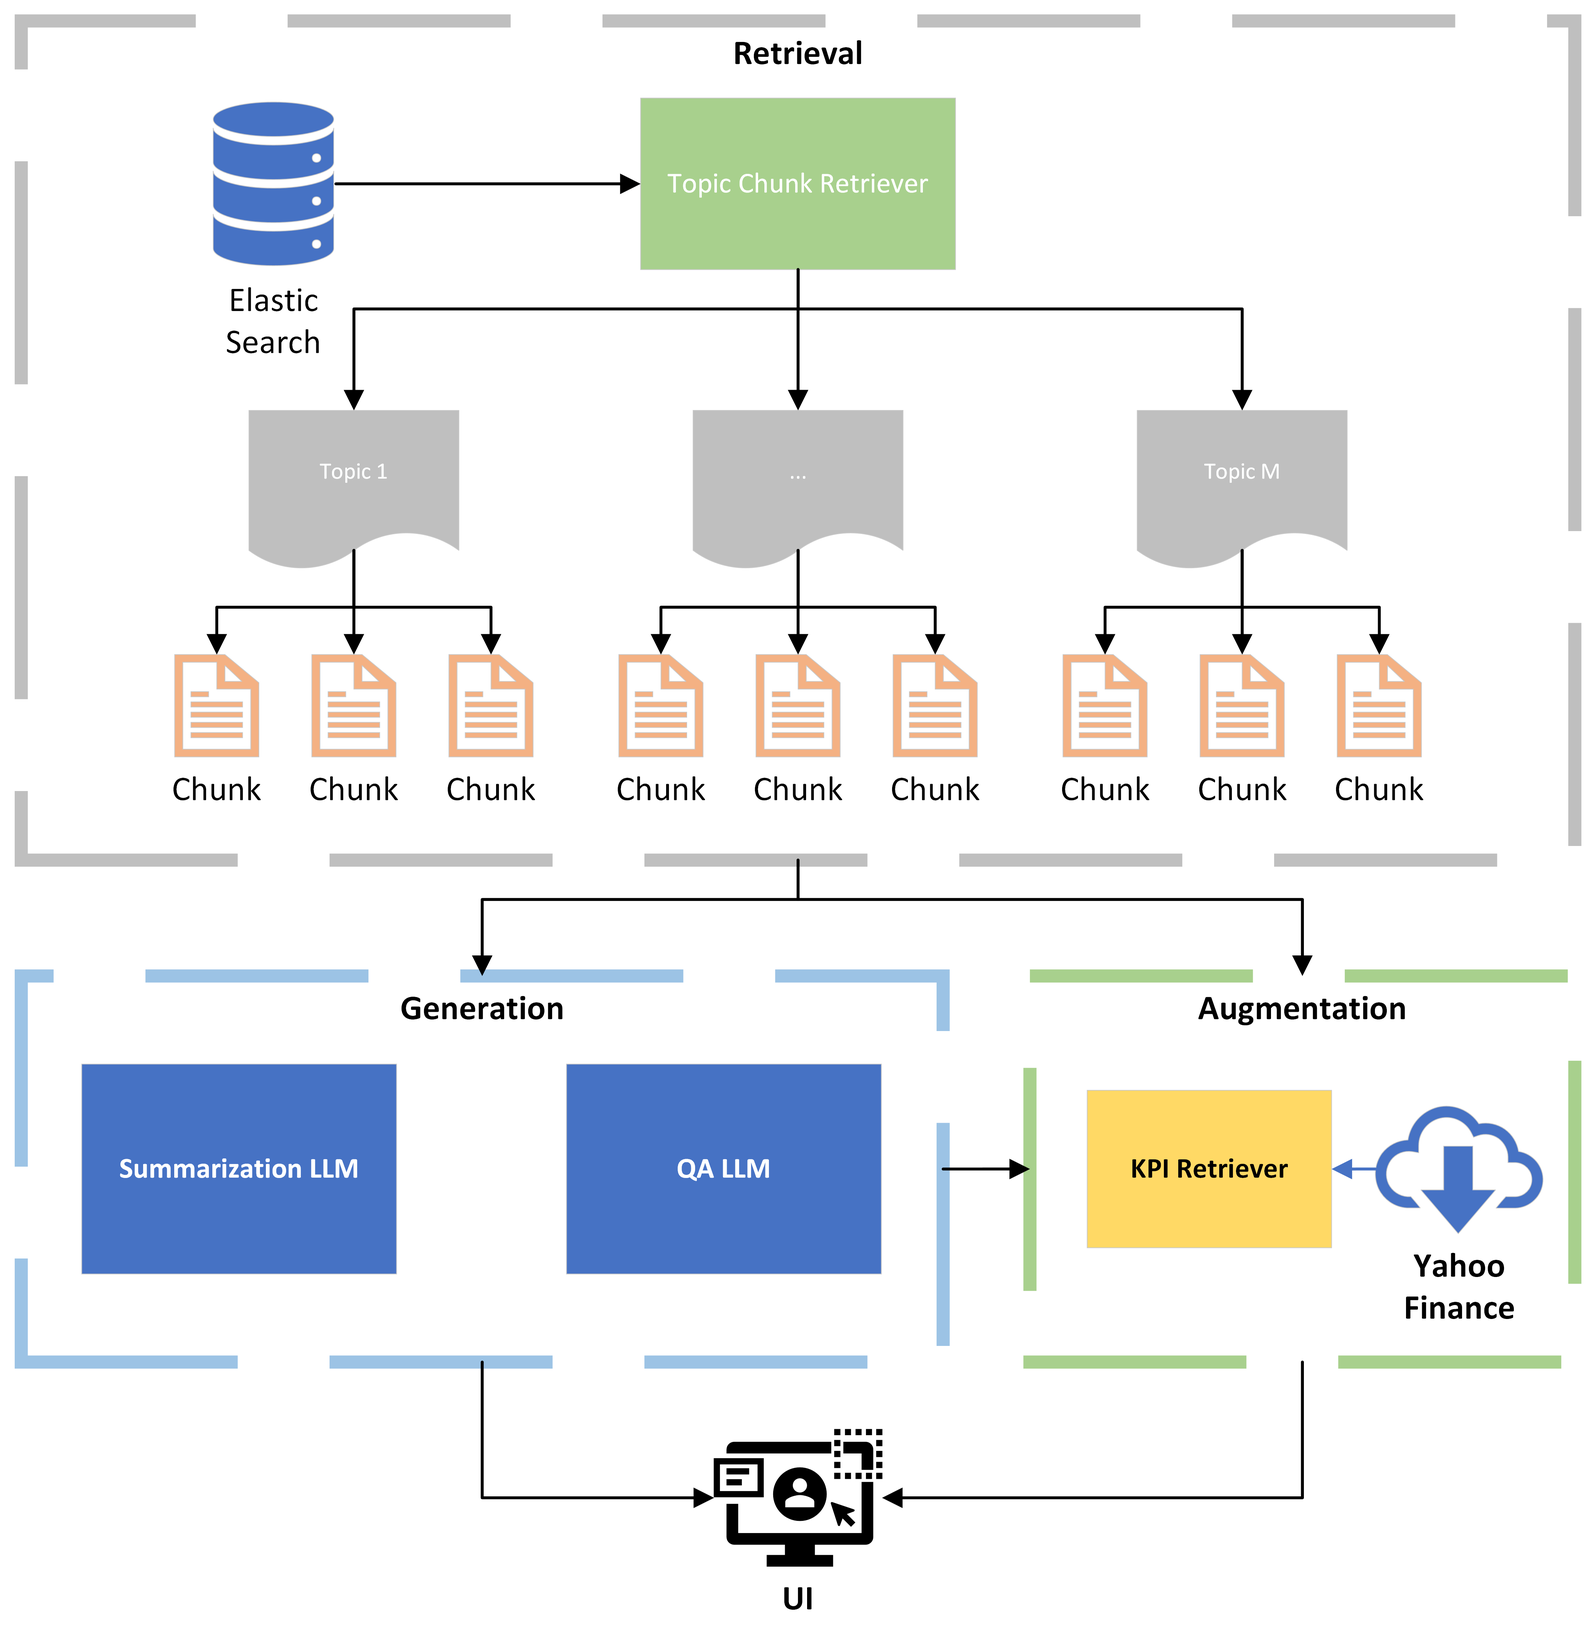
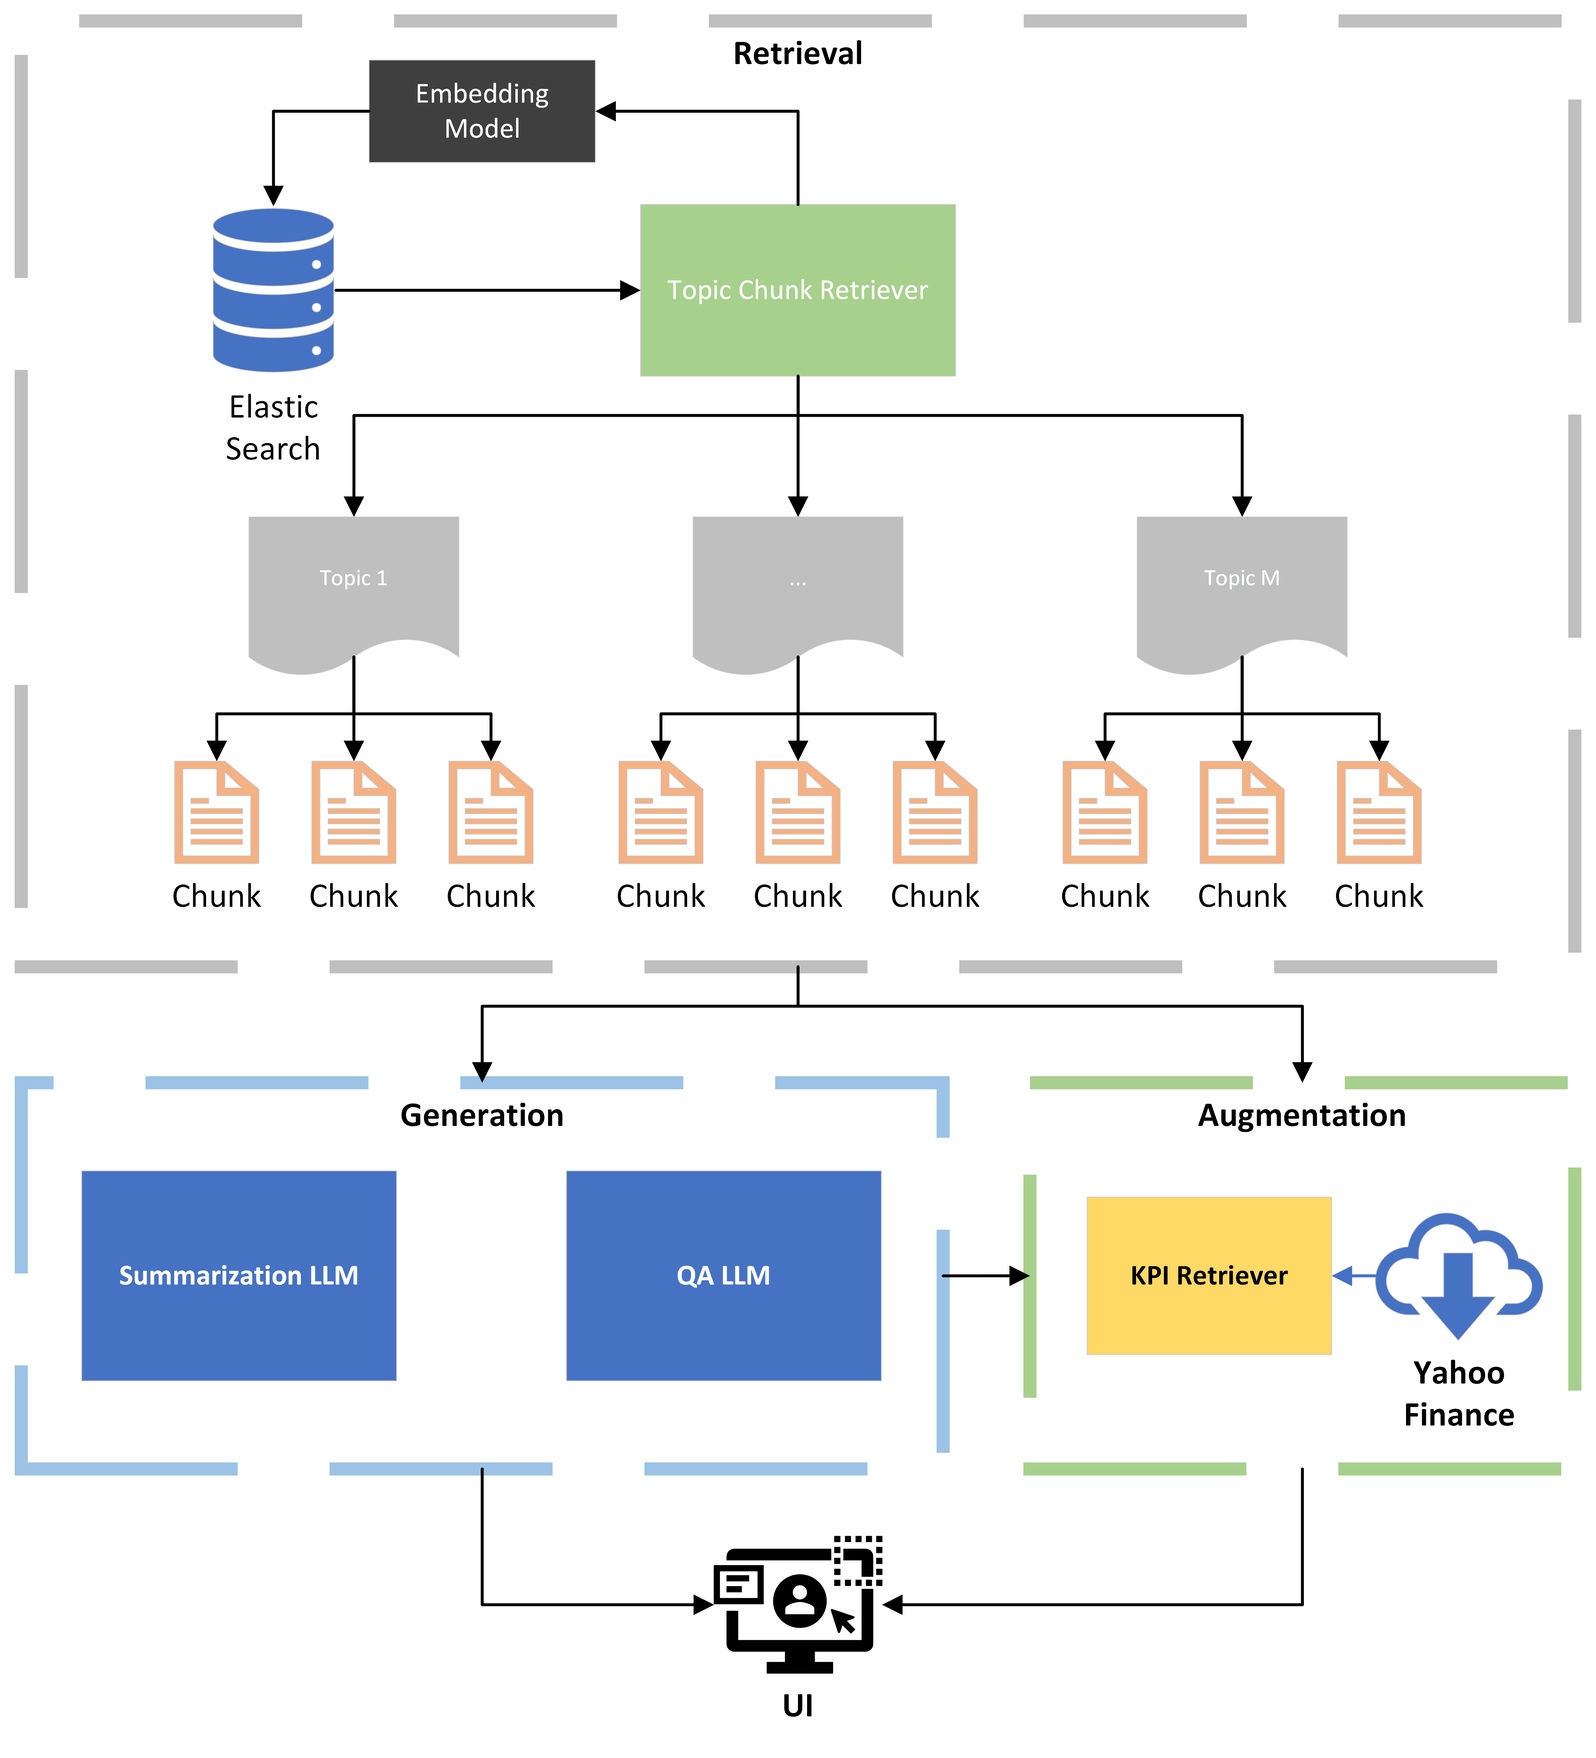
Updates readme

diff --git a/README.md b/README.md
@@ -16,17 +16,13 @@
 
 ## Demo <a name="demo"></a>
 
-TODO
+TODO. Add when the demo video is done.
 
 ## About FinBot <a name="background"></a>
 
 FinBot is an AI driven web application capable of analyzing financially related news articles and provide 
 insights to retail investors. The application can empower the users to make better investment decisions while saving 
 time and money by letting leveraging the power of LLM and retrieval augmented generation.
-
-### Industry Research <a name="industry_research"></a>
-
-TODO
 
 ### Project Mission <a name="mission"></a>
 
@@ -62,19 +58,42 @@ number of retail investors. In recent years, the growth of ESG suggests that inv
 such as delivering social impact, by means of their investment. In addition, getting financial advice can be costly, 
 and the interest of the hired advisor may not truly be aligned with the interest of the investor.
 
+![ESG](images/esg.png)
+
 The aim of the project is to alleviate those pain-points by reducing the information asymmetry that leads to less efficient 
 investment choices by retail investors compared to a dedicated advisor or asset manager. Utilizing the power of AI, we provide 
 our users the power to quickly digest facts and insights from the vast collection of publically available financial news 
-articles 
+articles
 
 ### Current Features
 
-The main features for the project ordered by priority is given below:
+#### Question Answering
 
-1. Answer any questions about business news and developments in a time frame
-2. Summarize contextual information from different perspectives
-3. Automatically pulling relevant financial metrics from companies
-- *TODO: Add more as we develop it further*
+Given any question about business news or developments in a time frame, FinBot can help user to get the information 
+they need quickly. The users can stay up-to-date quickly and painlessly.
+
+INSERT SCREENSHOT HERE
+
+#### Key-points Summarization
+
+For each question, FinBot helps user to expand their view by summarizing key-points from different topics related 
+to their inquiry.
+
+INSERT SCREENSHOT HERE
+
+#### Built-in KPI Viewer
+
+FinBot automatically extracts relevant companies for each query, and present selected KPIs to the users. The users 
+would be able to learn about different companies at a glance.
+
+INSERT SCREENSHOT HERE
+
+#### On-demand Financial Advice
+
+FinBot can provide assistance in picking stocks, ETFs, mutual funds, and bonds if the users ask for it. Combining 
+with the other features, it can enable the users to manage their own assets without high time cost.
+
+INSERT SCREENSHOT HERE
 
 ## Project Implementation
 
@@ -89,13 +108,14 @@ and reasoning ability of the LLMs to create the outputs for the users.
 
 ![Architecture](images/arch_high.png)
 
-Our work to implement the process can be roughly divided into three main parts:
+Our work to implement the process can be roughly divided into four main parts:
 
-- Data Ingestion: Scraping news articles and enriching them with additional information
+- Data Ingestion: Scraping news articles/KPIs and enriching them with additional information
 - Model Improvements: Fine-tuning the LLMs to achieve desired performance and output format
-- Output Generation: Generating outputs via LLMs and augmenting the output with additional information
+- Informative Generation: Generating outputs via LLMs and augmenting the output with additional information
+- Advice Generation: Helping users to pick assets via LLMs
 
-### Data Ingestion
+### Data Ingestion for Articles
 
 The data collection pipeline collects and aggregate news articles. Then, it applies a series of NLP techniques including 
 co-reference resolution, topic modeling, text embedding, NER, and Min-Hash to augment the articles. Finally, it prepares 
@@ -105,51 +125,52 @@ the articles for output generation by chunking the article texts and indexing th
 
 #### Web Scraping for Data Collection ([scraper](scraper))
 - We've gathered data from prominent news sources, including CNBC, The New York Times, and Reuters, as part of the data collection phase. The [common.py](scraper/common.py) is a framework that serves as the backbone for the web scraper. It encapsulates the essential functionality of traversing HTML pages by following links, verifying if a URL has already been scraped, and progressing to the subsequent page.
-- The [cnbc_requests.py](scraper/cnbc_requests.py), [nyt_requests.py](scraper/nyt_requests.py) and [reuters_requests.py](scraper/reuters_requests.py) scripts are dedicated scrapers designed for their respective news sources, employing the '[lxml](https://lxml.de/)' module to extract key information such as article sections, titles, publication timestamps, article bodies, and optional summaries.
+- The [cnbc_requests.py](scraper/cnbc_requests.py), [nyt_requests.py](scraper/nyt_requests.py) and [reuters_requests.py](scraper/reuters_requests.py) scripts are dedicated scrapers designed for their respective news sources, employing the lxml module to extract key information such as article sections, titles, publication timestamps, article bodies, and optional summaries.
 - News articles spanning from March 2008 to September 2023 have been scraped and collected for the project.
-- The scrapers dump the scraped articles into BigQuery
+- The scrapers dump the scraped articles into BigQuery.
 
-#### Deduplication of the news articles
+#### Deduplication of the news articles ([clean_data_1.py](pipeline/clean_data_1.py))
 - The dataset includes near duplicate articles, which may be attributed to either the scraper's behavior or the occurrence of similar news articles from different sources.
 - Eliminating these duplicate news articles is crucial to improve efficiency, prevent potential biases caused by redundant information, and ensure a more accurate representation of the data.
 - In this context, we've employed the MinHash LSH technique to effectively eliminate duplicate news articles from the dataset.
 
-#### Coreference Resolution
-- The [coref_resolve_4.py](pipeline/coref_resolve_4.py) script utilizes a list of coreference clusters to transform a Spacy document into a string. 
-- In this transformation, each coreference is replaced with its primary mention
-- More emphasis on named entities, and preserves context on text chunking
+#### Coreference Resolution ([clean_data_1.py](pipeline/clean_data_1.py))
+- The ingestion pipeline uses a SPAN-Bert co-reference resolution model from allen-nlp.
+- In this transformation, each coreference is replaced with its primary mention.
+- More emphasis on named entities, and preserves context on text chunking.
 
-#### Topic Modelling
-- The primary objective of topic modeling ([extract_topics_5.py](pipeline/extract_topics_5.py)) is to ensure the retrieval of a diverse set of content segments. 
+#### Topic Modelling ([build_topics_2.py](pipeline/build_topics_2.py))
+- The primary objective of topic modeling is to ensure the retrieval of a diverse set of content segments. 
 - Typically, in semantic search, there's a possibility that the top segments retrieved could be quite similar. However, by introducing topics, it compels the system to select segments that cover distinct facets or angles of the subject matter, promoting a more comprehensive and well-rounded result set.
-- BERTopics is used to utilize the power of embeddings
-- The [summarize_topics_6.py](pipeline/summarize_topics_6.py) generates concise and coherent summaries of the theme for each topics
+- BERTopics is used to utilize the power of embeddings for the clustering process.
+- The titles from the top articles in a topic are used to generate themes of the topics used for index creation later.
 
-#### Text Chunking & NER
-- In order to make the most out of the context window for the LLMs, the article texts are split into chunks of up to 256 tokens
+#### Text Chunking & NER ([build_vector_index_3.py](pipeline/build_vector_index_3.py))
+- In order to make the most out of the context window for the LLMs, the article texts are split into chunks of up to 512 tokens
 - The chunk boundaries are determined by first splitting the text into sentences using Spacy, then merging the sentences.
 - For each chunks, a list of named entities are extracted using Spacy to allow for matching by entity during output generation.
-- The main processing code for this section is in the [build_vector_index_7.py](pipeline/build_vector_index_7.py)
 
-#### Index Creation/Text Embedding
+#### Index Creation/Text Embedding ([build_vector_index_3.py](pipeline/build_vector_index_3.py))
 - Once all of the enrichment techniques are applied, a sentence transformer model is applied to each text chunk to create the associated embedding
 - Next, for each topic found, the summaries of the topics are converted into embeddings for relevant topic identification
 - An elastic search index containing the following information would be created for topic retrieval
   - Topic Number
+  - Topic Model Number
   - Topic Summary
   - Topic Summary Embedding
-  - Median Publication Date of Top Articles
+  - Average Publication Date of Top Articles
 - An elastic search index containing the following information would be created for article text chunk retrieval
   - Text Chunk Text
   - Text Chunk Embedding
   - Entities in Chunk
+  - Title of the Source Article
   - Topic Number of the Chunk
+  - Topic Model Number of the Chunk
   - Publication Date
-- The associated code is located in [build_vector_index_7.py](pipeline/build_vector_index_7.py)
 
-Once the indices are built, the solution is ready to generate output for the users.
+Once the indices are built, the solution is ready to generate informative output for the users.
 
-### Output Generation
+### Output Generation for Informing User
 
 The final output to the user consists of three main segments:
 - Direct answer to user query
@@ -160,24 +181,21 @@ The final output to the user consists of three main segments:
 
 The algorithms for handling output is located in the [summarizer](summarizer) directory.
 
-*TODO: Touch Up once done*
-
 #### Retrieval
 - A topic based retrieval strategy is used for QA/Summarization.
 - First, the top T relevant topics are found via a semantic similarity search of user query against topic embedding (summary of topics)
 - Then, for each relevant topics, the top K text chunks from the topic is found via a combined score of full text search (entities, raw text, titles) and chunk embeddings (MMR)
-- While searching, the chunks are constraint according to user specified time-frame
+- While searching, the chunks and topics are constrained according to user specified time-frame
 
 #### Generation
 - A custom fine-tuned summary model on the article summaries is used with the retrieved chunks to generate the key-points summaries
 - A model fine-tuned on reading comprehension based free-form QA is used to directly answer the user query
-- Raw text generation is enriched via public metrics such as P/E ratio, Cashflow etc based on entities found in query and generated output
+- Raw text generation is enriched via publicly available metrics such as P/E ratio, Cashflow etc based on companies mentioned in the query and output
 - The Streamlit UI combines the QA generation, the summarized key-points, and the KPIs in a coherent page for the user.
 
 ### Model Improvements
 
-In addition to creating envelops around LLMs, we customized the pre-trained models. We require the following models for 
-our solution:
+In addition to creating envelops around LLMs, we customized the pre-trained models for our solution:
 
 - Embedding Model: A model capable of vectorizing the text such that the distance between queries and relevant chunks would be minimized
 - QA Model: A LLM capable of directly answering the query of the user given retrieved chunks
@@ -198,6 +216,12 @@ In order to align the generated embeddings with financially related queries and 
 FIQA dataset was created by scraping questions asked on forums such as stackexchange and reddit, we augmented the train, 
 eval, and test split of the dataset separately by prompting PaLM2 chat-bison to re-write the answer paragraph in a formal 
 way adhering to the convention of news and/or reports.
+
+The training setup can be described as a way to minimize the distance between the embedding vectors between the 
+question and associated answer candidates without making all the embeddings similar to each other. The loss function 
+used is identical to the Multiple Negatives loss described in [Efficient Natural Language Response Suggestion for Smart Reply](https://arxiv.org/pdf/1705.00652.pdf)
+
+![Training Process](images/embedding_tune.png)
 
 The fine-tuning followed a standard train-eval loop for 10 epochs on the FIQA train/eval splits. The default hyper-parameters 
 from sentence transformers were applied. After running through the 10 epochs, checkpoint with the best max(MAP@2, MAP@3) score 
@@ -224,22 +248,32 @@ In general, we were able to improve the embedding model performance by a few per
 
 #### Targeted Summarization
 
-##### Model Selection
+##### Data Augmentation
 
-For our summarization model, we used the scraped articles as a foundation to pick, train, and evaluate the models. Since 
-the goal is to generate key-points for the user, we decided to let the model mimic the human-written key-points summaries 
-generally found together with the financially related news articles. The final aggregated news dataset consists of ~50K 
-articles in the training set, and 1000 articles in the test set. We excluded the evaluation set for this model because 
-we did not tune hyper-parameters for the fine-tuning. Since the scraped data would not contain potential questions that the 
-users would ask for the targeted summaries, we augmented the data by using PaLM2 chat-bison to come up with a question that 
-a retail investor might ask with an answer found in the article, and a different question where it would be impossible to 
-answer with information contained in the article. For the impossible case, we set the output summary to be "IMPOSSIBLE."
+Prior to running the training process on the model, we first augmented the data so that it matches the profile for retrieval 
+augmented generation. During the augmentation process, the GPT-3.5-Turbo model was used to perform generation, 
+classification, and re-writing of the key-points. Specifically, the following steps were taken to ensure that the model behaves as 
+expected during the output generation ([augmentations](pipeline/finetuning.py)).
+
+1. The rows containing key-points summaries that are not informative or contains information easily retrieved from stock screeners are removed
+2. The key-points summaries are augmented so that it mentions the publication date of the article, or relevant dates from the article body
+3. A one-line tagline was generated over all the key-points to be used as a header for the key-points
+4. A question related to the key-points, and a question not relevant to the key-points were generated.
+5. Co-reference resolution was applied to the article body
+6. The article bodies were broken into chunks, with random chunks added from other articles to match the profile of RAG.
+7. The augmented chunks for each article were shuffled with published date of the source article added, and then combined to make the final input data
+8. The model would then be trained to predict the augmented key-points summaries for the related questions given the input, and a fixed impossible to answer string for the unrelated questions.
+
+The final aggregated news dataset consists of ~40K articles in the training set, and 1000 articles in the test set. 
+We excluded the evaluation set for this model because we did not tune hyper-parameters for the fine-tuning.
+
+##### Model Selection
 
 After considering the ease of deployment, the advancements in model architecture, and the availability of supportive 
 infrastructure such as VLLM, we arrived at 2 candidate model for targeted summaries. The first candidate was the chat version 
 of the Llama-2 7B model. The second candidate, Open-Orca Mistral-7B was one of the top performer on the HuggingFace 
-LLM leaderboard. We evaluated the base model on our targetted summaries test split by considering the ROUGE-2 Score on instances 
-where both the predicted and actual summaries are not "IMPOSSIBLE", and the 
+LLM leaderboard. We evaluated the base model on our targeted summaries test split by considering the ROUGE-2 Score on instances 
+where both the predicted and actual summaries are not impossible to answer, and the 
 ability of the model to classify the case when it's impossible to create the targeted summary. 
 
 ![Initial ROUGE](images/initial_rouge.png)
@@ -252,7 +286,7 @@ has proven itself on the Huggingface Leaderboard. Thus, we decided to move forwa
 
 ##### Model Finetuning
 
-We fine-tuned the Mistral model on the training split of our article dataset using half-precision LORA with the following hyper-parameters:
+We fine-tuned the Mistral model using the standard language modeling objective on the training split of our article dataset using half-precision LORA with the following hyper-parameters:
 - Epoch: 4
 - Learning Rate: 0.0001
 - Effective Batch Size: 4
@@ -269,7 +303,7 @@ The performance comparison after tuning is given below:
 
 ![Tuned Hallucination](images/tune_hal.png)
 
-After fine-tuning, both the ROUGE-2 score and F1 score for identifying impossible case increased drastically. Furthermore, 
+After fine-tuning, the ROUGE-2 score for the possible cases, and F1 score for identifying impossible case increased drastically. Furthermore, 
 the recall for identifying the impossible case was 98% on the test set. Thus, the model errs more on the side of false 
 positives, which is acceptable since we do not want to provide potentially false information.
 
@@ -278,4 +312,4 @@ positives, which is acceptable since we do not want to provide potentially false
 
 ## Future Work
 
-*TODO: See how far we get*
+TODO
